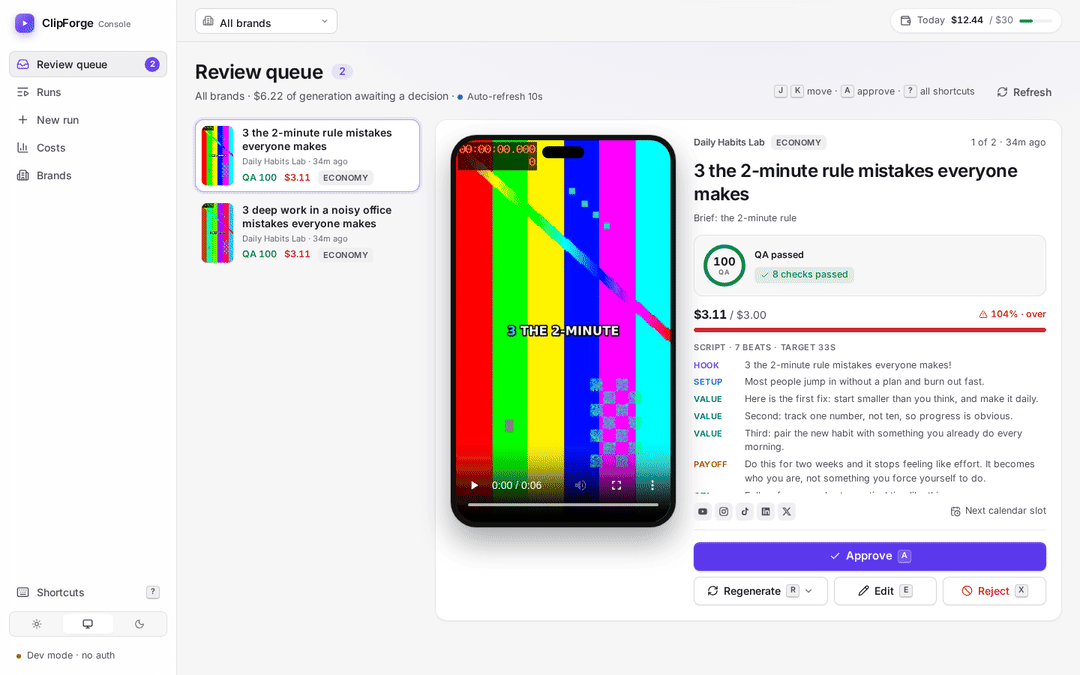
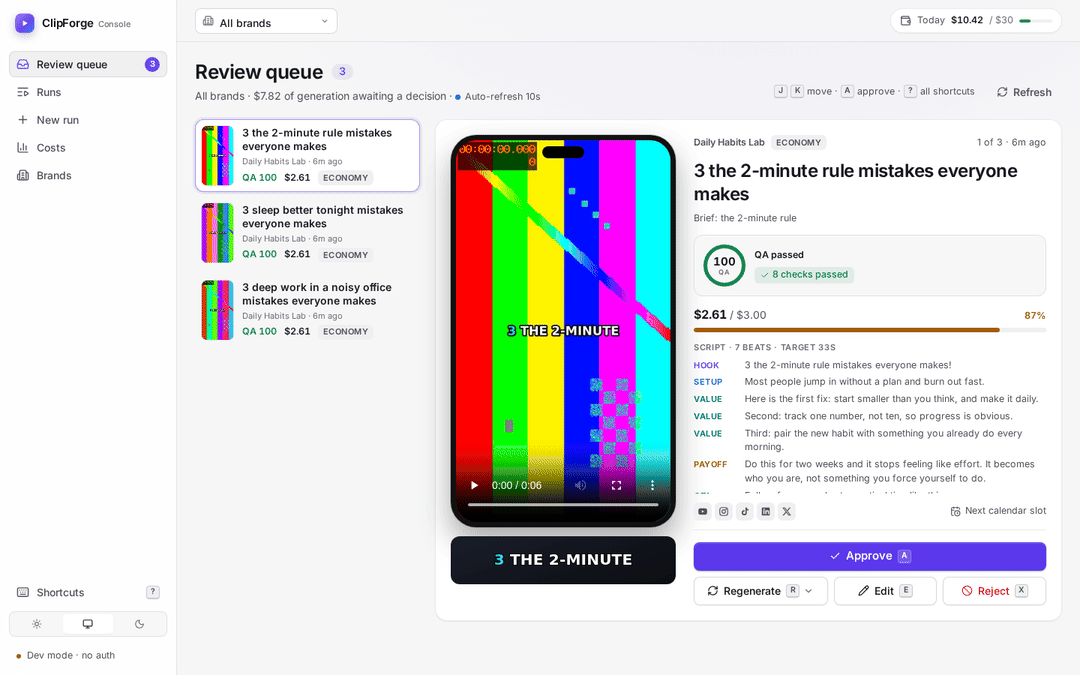
Review UI: stage/provider stacked cost chart, thumbnail URLs, queue caption preview, waiting-for-review state
Claude-Session: https://claude.ai/code/session_016kKJU2FbEd5ikmWM3dBL89

diff --git a/ui/src/pages/CostsPage.tsx b/ui/src/pages/CostsPage.tsx
@@ -7,7 +7,7 @@ import { Card, EmptyState, ErrorBox, PageHeader, Segmented, Skeleton, StatTile }
 import { isoDay, money } from "../format";
 import { useAsync } from "../hooks";
 import { useBrandScope } from "../state";
-import type { BrandCosts } from "../types";
+import { STAGES, type BrandCosts } from "../types";
 
 const TARGET_PER_RUN = 3;
 const SERIES = ["var(--series-1)", "var(--series-2)", "var(--series-3)", "var(--series-4)", "var(--series-5)", "var(--series-6)"];
@@ -114,7 +114,7 @@ export function CostsPage() {
             />
           </div>
 
-          <DayChartCard data={costs.data ?? []} days={days} dailyBudget={dailyBudget} brandName={brandName} />
+          <DayChartCard data={costs.data ?? []} days={days} dailyBudget={dailyBudget} />
 
           <div className="grid-2">
             <Breakdown title="By provider" data={agg.by_provider} total={agg.total} />
@@ -209,27 +209,60 @@ function niceMax(v: number): number {
   return step * p;
 }
 
-/** Stacked daily spend (one series per brand in scope), with hover tooltip and a table view. */
-function DayChartCard({
-  data,
-  days,
-  dailyBudget,
-  brandName,
-}: {
-  data: BrandCosts[];
-  days: string[];
-  dailyBudget: number;
-  brandName: (id: string) => string;
-}) {
+type Dim = "stage" | "provider";
+
+interface Series {
+  id: string;
+  name: string;
+  color: string;
+  byDay: Map<string, number>;
+}
+
+/** Aggregate by_day[].by_stage / by_provider across the brands in scope into stack series. */
+function buildSeries(data: BrandCosts[], dim: Dim): Series[] {
+  const acc = new Map<string, Map<string, number>>();
+  for (const c of data)
+    for (const d of c.by_day) {
+      const parts = (dim === "stage" ? d.by_stage : d.by_provider) ?? {};
+      for (const [k, v] of Object.entries(parts)) {
+        if (!v) continue;
+        const m = acc.get(k) ?? new Map<string, number>();
+        m.set(d.day, (m.get(d.day) ?? 0) + v);
+        acc.set(k, m);
+      }
+    }
+  const order = (k: string) => {
+    const i = (STAGES as readonly string[]).indexOf(k);
+    return dim === "stage" && i >= 0 ? String(i).padStart(2, "0") : `99${k}`;
+  };
+  let keys = [...acc.keys()].sort((a, b) => order(a).localeCompare(order(b)));
+  // Past the categorical palette, fold the smallest series into "Other".
+  const total = (k: string) => [...acc.get(k)!.values()].reduce((a, b) => a + b, 0);
+  let other: Map<string, number> | null = null;
+  if (keys.length > SERIES.length) {
+    const keep = new Set([...keys].sort((a, b) => total(b) - total(a)).slice(0, SERIES.length - 1));
+    other = new Map();
+    for (const k of keys.filter((k) => !keep.has(k)))
+      for (const [d, v] of acc.get(k)!) other.set(d, (other.get(d) ?? 0) + v);
+    keys = keys.filter((k) => keep.has(k));
+  }
+  const out: Series[] = keys.map((k, i) => ({
+    id: k,
+    name: dim === "stage" ? (STAGE_META[k]?.label ?? k) : k,
+    color: SERIES[i],
+    byDay: acc.get(k)!,
+  }));
+  if (other) out.push({ id: "__other", name: "Other", color: "var(--neutral)", byDay: other });
+  return out;
+}
+
+/** Daily spend stacked by stage or provider, with hover tooltip and a table view. */
+function DayChartCard({ data, days, dailyBudget }: { data: BrandCosts[]; days: string[]; dailyBudget: number }) {
   const [ref, W] = useWidth<HTMLDivElement>();
   const [hover, setHover] = useState<number | null>(null);
   const [view, setView] = useState<"chart" | "table">("chart");
-  const series = data.map((c, i) => ({
-    id: c.brand_id,
-    name: brandName(c.brand_id),
-    color: SERIES[i % SERIES.length],
-    byDay: new Map(c.by_day.map((d) => [d.day, d.total])),
-  }));
+  const [dim, setDim] = useState<Dim>("stage");
+  const series = useMemo(() => buildSeries(data, dim), [data, dim]);
   const totals = days.map((d) => series.reduce((s, x) => s + (x.byDay.get(d) ?? 0), 0));
   const H = 260;
   const pad = { l: 48, r: 12, t: 16, b: 28 };
@@ -247,18 +280,29 @@ function DayChartCard({
     <Card
       title="Spend by day"
       actions={
-        <Segmented
-          label="View"
-          value={view}
-          onChange={setView}
-          options={[
-            { id: "chart", label: "Chart" },
-            { id: "table", label: "Table" },
-          ]}
-        />
+        <>
+          <Segmented
+            label="Stack by"
+            value={dim}
+            onChange={setDim}
+            options={[
+              { id: "stage", label: "Stage" },
+              { id: "provider", label: "Provider" },
+            ]}
+          />
+          <Segmented
+            label="View"
+            value={view}
+            onChange={setView}
+            options={[
+              { id: "chart", label: "Chart" },
+              { id: "table", label: "Table" },
+            ]}
+          />
+        </>
       }
     >
-      {series.length > 1 && (
+      {series.length > 0 && (
         <ul className="legend legend-inline">
           {series.map((s) => (
             <li key={s.id}>
@@ -383,18 +427,20 @@ function DayChartCard({
                   timeZone: "UTC",
                 })}
               </div>
-              {series.map((s) => (
-                <div key={s.id} className="tooltip-row">
-                  <span className="swatch" style={{ background: s.color }} aria-hidden />
-                  <span className="grow">{s.name}</span>
-                  <span className="tabular strong">{money(s.byDay.get(days[hover]) ?? 0)}</span>
-                </div>
-              ))}
-              {dailyBudget > 0 && (
-                <div className="tooltip-foot tabular">
-                  {Math.round((totals[hover] / dailyBudget) * 100)}% of daily budget
-                </div>
-              )}
+              {[...series]
+                .reverse()
+                .filter((s) => (s.byDay.get(days[hover]) ?? 0) > 0)
+                .map((s) => (
+                  <div key={s.id} className="tooltip-row">
+                    <span className="swatch" style={{ background: s.color }} aria-hidden />
+                    <span className="grow">{s.name}</span>
+                    <span className="tabular strong">{money(s.byDay.get(days[hover]) ?? 0)}</span>
+                  </div>
+                ))}
+              <div className="tooltip-foot tabular">
+                Total <strong>{money(totals[hover])}</strong>
+                {dailyBudget > 0 && ` · ${Math.round((totals[hover] / dailyBudget) * 100)}% of daily budget`}
+              </div>
             </div>
           )}
         </div>

diff --git a/ui/src/pages/QueuePage.tsx b/ui/src/pages/QueuePage.tsx
@@ -17,6 +17,7 @@ import {
   TierBadge,
 } from "../components/ui";
 import { STAGE_META } from "../components/icons";
+import { CaptionPreview } from "./run/PreviewTab";
 import { dateTime, money, relTime } from "../format";
 import { isTypingTarget, useAsync, useMediaQuery } from "../hooks";
 import { useBrandScope, useQueue, useToast } from "../state";
@@ -211,6 +212,9 @@ function QueueCard({
 }) {
   const { run, script, qa } = item;
   const title = script?.title || run.brief || "Untitled run";
+  const [t, setT] = useState(0);
+  const { brands } = useBrandScope();
+  const captionStyle = brands.find((b) => b.id === run.brand_id)?.kit?.caption_style;
   return (
     <article
       ref={cardRef}
@@ -220,7 +224,14 @@ function QueueCard({
       aria-label={`${title}, awaiting review`}
       aria-current={focused ? "true" : undefined}
     >
-      <PhoneFrame src={item.preview_url} label={`Preview of ${title}`} />
+      <div className="qcard-media">
+        <PhoneFrame src={item.preview_url} label={`Preview of ${title}`} onTime={item.vo?.words?.length ? setT : undefined} />
+        {focused && item.vo?.words?.length ? (
+          <div className="qcard-caption" title="Word-timed caption preview, synced to the player">
+            <CaptionPreview words={item.vo.words} t={t} style={captionStyle} />
+          </div>
+        ) : null}
+      </div>
       <div className="qcard-body">
         <div className="qcard-meta">
           <span className="brand-name">{item.brand_name}</span>

diff --git a/ui/src/types.ts b/ui/src/types.ts
@@ -114,6 +114,8 @@ export interface PlatformMetadata {
   thumbnail_time: number;
   ai_disclosure: boolean;
   aspect: AspectRatio;
+  /** resolved URL for thumbnail_path (GET /runs/{id} only) */
+  thumbnail_url?: string | null;
 }
 
 export interface PostRecord {
@@ -251,6 +253,7 @@ export interface QueueItem {
   brand_name: string;
   qa: QAReport | null;
   script: Script | null;
+  vo?: VoiceOver | null;
   preview_url: string | null;
   cost_total: number;
   budget: number;
@@ -329,6 +332,13 @@ export interface RunCreateBody {
   budget?: number;
 }
 
+export interface CostDay {
+  day: string;
+  total: number;
+  by_stage: Record<string, number>;
+  by_provider: Record<string, number>;
+}
+
 export interface BrandCosts {
   brand_id: string;
   from: string;
@@ -336,7 +346,7 @@ export interface BrandCosts {
   total: number;
   by_provider: Record<string, number>;
   by_stage: Record<string, number>;
-  by_day: { day: string; total: number }[];
+  by_day: CostDay[];
   runs: number;
 }
 

diff --git a/ui/src/pages/run/tabs.tsx b/ui/src/pages/run/tabs.tsx
@@ -260,9 +260,7 @@ export function PublishTab({ d }: { d: RunDetail }) {
       {platforms.map((p) => {
         const m = meta.find((x) => x.platform === p);
         const post = posts.find((x) => x.platform === p);
-        // metadata.thumbnail_path is a storage key; resolve it via the run's asset list.
-        const thumb = m?.thumbnail_path ? d.assets.find((a) => a.storage_path === m.thumbnail_path)?.url : null;
-        return <PlatformCard key={p} platform={p} meta={m} post={post} thumb={thumb ?? null} />;
+        return <PlatformCard key={p} platform={p} meta={m} post={post} thumb={m?.thumbnail_url ?? null} />;
       })}
     </div>
   );

diff --git a/ui/src/styles.css b/ui/src/styles.css
@@ -3861,3 +3861,26 @@ a.lnode:hover {
   color: #fff;
   font-size: var(--fs-xs);
 }
+
+.qcard-media {
+  flex: none;
+  display: flex;
+  flex-direction: column;
+  gap: var(--s-3);
+  align-items: center;
+}
+.qcard-caption {
+  width: 100%;
+}
+.qcard-caption .caption-stage {
+  min-height: 64px;
+  padding: var(--s-3);
+}
+.qcard-caption .caption-line {
+  font-size: 20px;
+}
+@media (max-width: 860px) {
+  .qcard-media {
+    align-self: stretch;
+  }
+}

diff --git a/ui/src/pages/run/Pipeline.tsx b/ui/src/pages/run/Pipeline.tsx
@@ -77,7 +77,7 @@ export function Pipeline({ stages, run }: { stages: StageRecord[]; run: Run }) {
               <div className="stage-label">{meta.label}</div>
               <div className="stage-sub tabular">
                 {st === "waiting"
-                  ? "awaiting you"
+                  ? "waiting for review"
                   : st === "running"
                     ? dur !== null
                       ? seconds(dur)

diff --git a/ui/README.md b/ui/README.md
@@ -13,11 +13,11 @@ daily budget" pill.
 
 | Route | What |
 | --- | --- |
-| `/` | **Review queue** — on wide screens a triage layout: queue rail on the left, the focused run on the right (9:16 phone preview, title/hook, QA score ring + failed-check chips, cost-vs-budget meter, script beats, platforms/schedule, decision bar). Narrow screens get stacked cards. Decisions remove the card optimistically and confirm with a toast; errors put it back. Live via Supabase Realtime, else polls every 10 s. |
+| `/` | **Review queue** — on wide screens a triage layout: queue rail on the left, the focused run on the right (9:16 phone preview with a word-timed caption preview, title/hook, QA score ring + failed-check chips, cost-vs-budget meter, script beats, platforms/schedule, decision bar). Narrow screens get stacked cards. Decisions remove the card optimistically and confirm with a toast; errors put it back. Live via Supabase Realtime, else polls every 10 s. |
 | `/runs/:id` | **Run detail** — header (status, tier, brand, age, wall time, platforms, Retry for failed/aborted/dead-letter), cost/QA/publish summary, decision panel while awaiting review, an 11-stage pipeline (live via SSE: status, duration, provider, cost, attempts, errors). Tabs: **Preview** (9:16 / 1:1 / 16:9 players, word-timed caption track synced to the player in the brand's caption style, VO + music license, generated clips), **Script** (beats timeline, VO/caption text, hook candidates with score + dedupe similarity, shot list with clip thumbnails), **QA** (checks table), **Publish** (per-platform metadata cards: thumbnail, char counts vs limits, AI-disclosure badge, post status/links), **Costs** (per-stage breakdown + ledger), **Lineage** (brief → hook → prompts → assets → renders → posts, linked). |
 | `/runs` | **Runs** — status-group chips with counts, search, brand filter, auto-refresh (4 s while runs are active). Rows open the detail page. |
 | `/runs/new` | **New run** — brand (with tier/budget), brief, tier cards with a 40 s cost estimate vs the run budget, platform toggles, calendar-slot or explicit schedule. |
-| `/costs`, `/brands/:id/costs` | **Costs** — KPI tiles (total, runs, avg per run vs the $3 target, avg per day), stacked daily spend (one series per brand in scope; hover tooltips, table view), by provider / stage. Ranges 7/14/30/90 d or custom (UTC days). |
+| `/costs`, `/brands/:id/costs` | **Costs** — KPI tiles (total, runs, avg per run vs the $3 target, avg per day), daily spend stacked by stage or provider (hover tooltips, table view), by provider / stage. Ranges 7/14/30/90 d or custom (UTC days). |
 | `/brands`, `/brands/:id` | **Brands** — kit summary: trust score vs auto-approve threshold, budgets, colour swatches, caption-style preview, voice/tone, banned topics, negative prompts, AI-disclosure per platform, weekly posting calendar. |
 
 ### Keyboard
